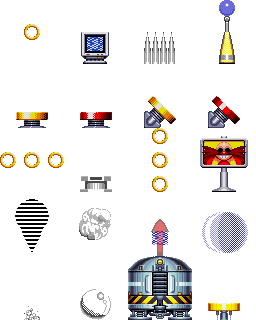
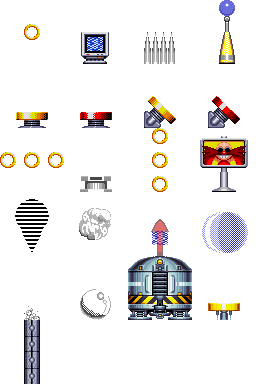
Add door object

diff --git a/assets/levels/COMMON/objects_common.tsx b/assets/levels/COMMON/objects_common.tsx
@@ -1,6 +1,6 @@
 <?xml version="1.0" encoding="UTF-8"?>
-<tileset version="1.10" tiledversion="1.11.2" name="objects_common" tilewidth="64" tileheight="64" tilecount="20" columns="4">
- <image source="obj_common_designtiles.png" width="256" height="320"/>
+<tileset version="1.10" tiledversion="1.11.2" name="objects_common" tilewidth="64" tileheight="64" tilecount="24" columns="4">
+ <image source="obj_common_designtiles.png" width="256" height="384"/>
  <tile id="0" type="ring"/>
  <tile id="1" type="monitor">
   <properties>
@@ -60,4 +60,5 @@
  <tile id="17" type="bubble"/>
  <tile id="18" type="end_capsule"/>
  <tile id="19" type="end_capsule_button"/>
+ <tile id="20" type="door"/>
 </tileset>

diff --git a/src/object_state_update.c b/src/object_state_update.c
@@ -61,6 +61,7 @@ static void _switch_update(ObjectState *state, ObjectTableEntry *, VECTOR *);
 static void _bubble_patch_update(ObjectState *state, ObjectTableEntry *, VECTOR *);
 static void _bubble_update(ObjectState *state, ObjectTableEntry *, VECTOR *);
 static void _end_capsule_update(ObjectState *state, ObjectTableEntry *, VECTOR *);
+static void _door_update(ObjectState *state, ObjectTableEntry *, VECTOR *);
 
 // Level-specific update functions
 extern void object_update_R0(ObjectState *, ObjectTableEntry *, VECTOR *);
@@ -136,6 +137,7 @@ object_update(ObjectState *state, ObjectTableEntry *typedata, VECTOR *pos, uint8
     case OBJ_BUBBLE_PATCH:           _bubble_patch_update(state, typedata, pos);       break;
     case OBJ_BUBBLE:                 _bubble_update(state, typedata, pos);             break;
     case OBJ_END_CAPSULE:            _end_capsule_update(state, typedata, pos);        break;
+    case OBJ_DOOR:                   _door_update(state, typedata, pos);               break;
     }
     return;
 
@@ -911,5 +913,23 @@ _end_capsule_update(ObjectState *state, ObjectTableEntry *entry, VECTOR *pos)
         .h = solidity.h << 12,
     };
 
+    solid_object_player_interaction(state, &solidity, 0);
+}
+
+
+static void
+_door_update(ObjectState *state, ObjectTableEntry *entry, VECTOR *pos)
+{
+    (void)(entry);
+    // TODO.
+    // Idea: If not-free: keep being static.
+    // If free: move down.
+
+    FRECT solidity = {
+        .x = (pos->vx - 8) << 12,
+        .y = (pos->vy - 64) << 12,
+        .w = 16 << 12,
+        .h = 64 << 12,
+    };
     solid_object_player_interaction(state, &solidity, 0);
 }

diff --git a/tools/cookobj/datatypes.py b/tools/cookobj/datatypes.py
@@ -43,6 +43,7 @@ class ObjectId(Enum):
     BUBBLE = 0x0E
     END_CAPSULE = 0x0F
     END_CAPSULE_BUTTON = 0x10
+    DOOR = 0x11
 
     @staticmethod
     def get(name):
@@ -64,6 +65,7 @@ class ObjectId(Enum):
             "bubble": ObjectId.BUBBLE,
             "end_capsule": ObjectId.END_CAPSULE,
             "end_capsule_button": ObjectId.END_CAPSULE_BUTTON,
+            "door": ObjectId.DOOR,
         }
         result = switch.get(name.lower())
         assert result is not None, f"Unknown common object {name}"

diff --git a/include/object.h b/include/object.h
@@ -31,6 +31,7 @@ typedef enum {
     OBJ_BUBBLE                 = 0x0e,
     OBJ_END_CAPSULE            = 0x0f,
     OBJ_END_CAPSULE_BUTTON     = 0x10,
+    OBJ_DOOR                   = 0x11,
 } ObjectType;
 
 #define MASK_FLIP_FLIPX  0x1 // Flip on X axis
